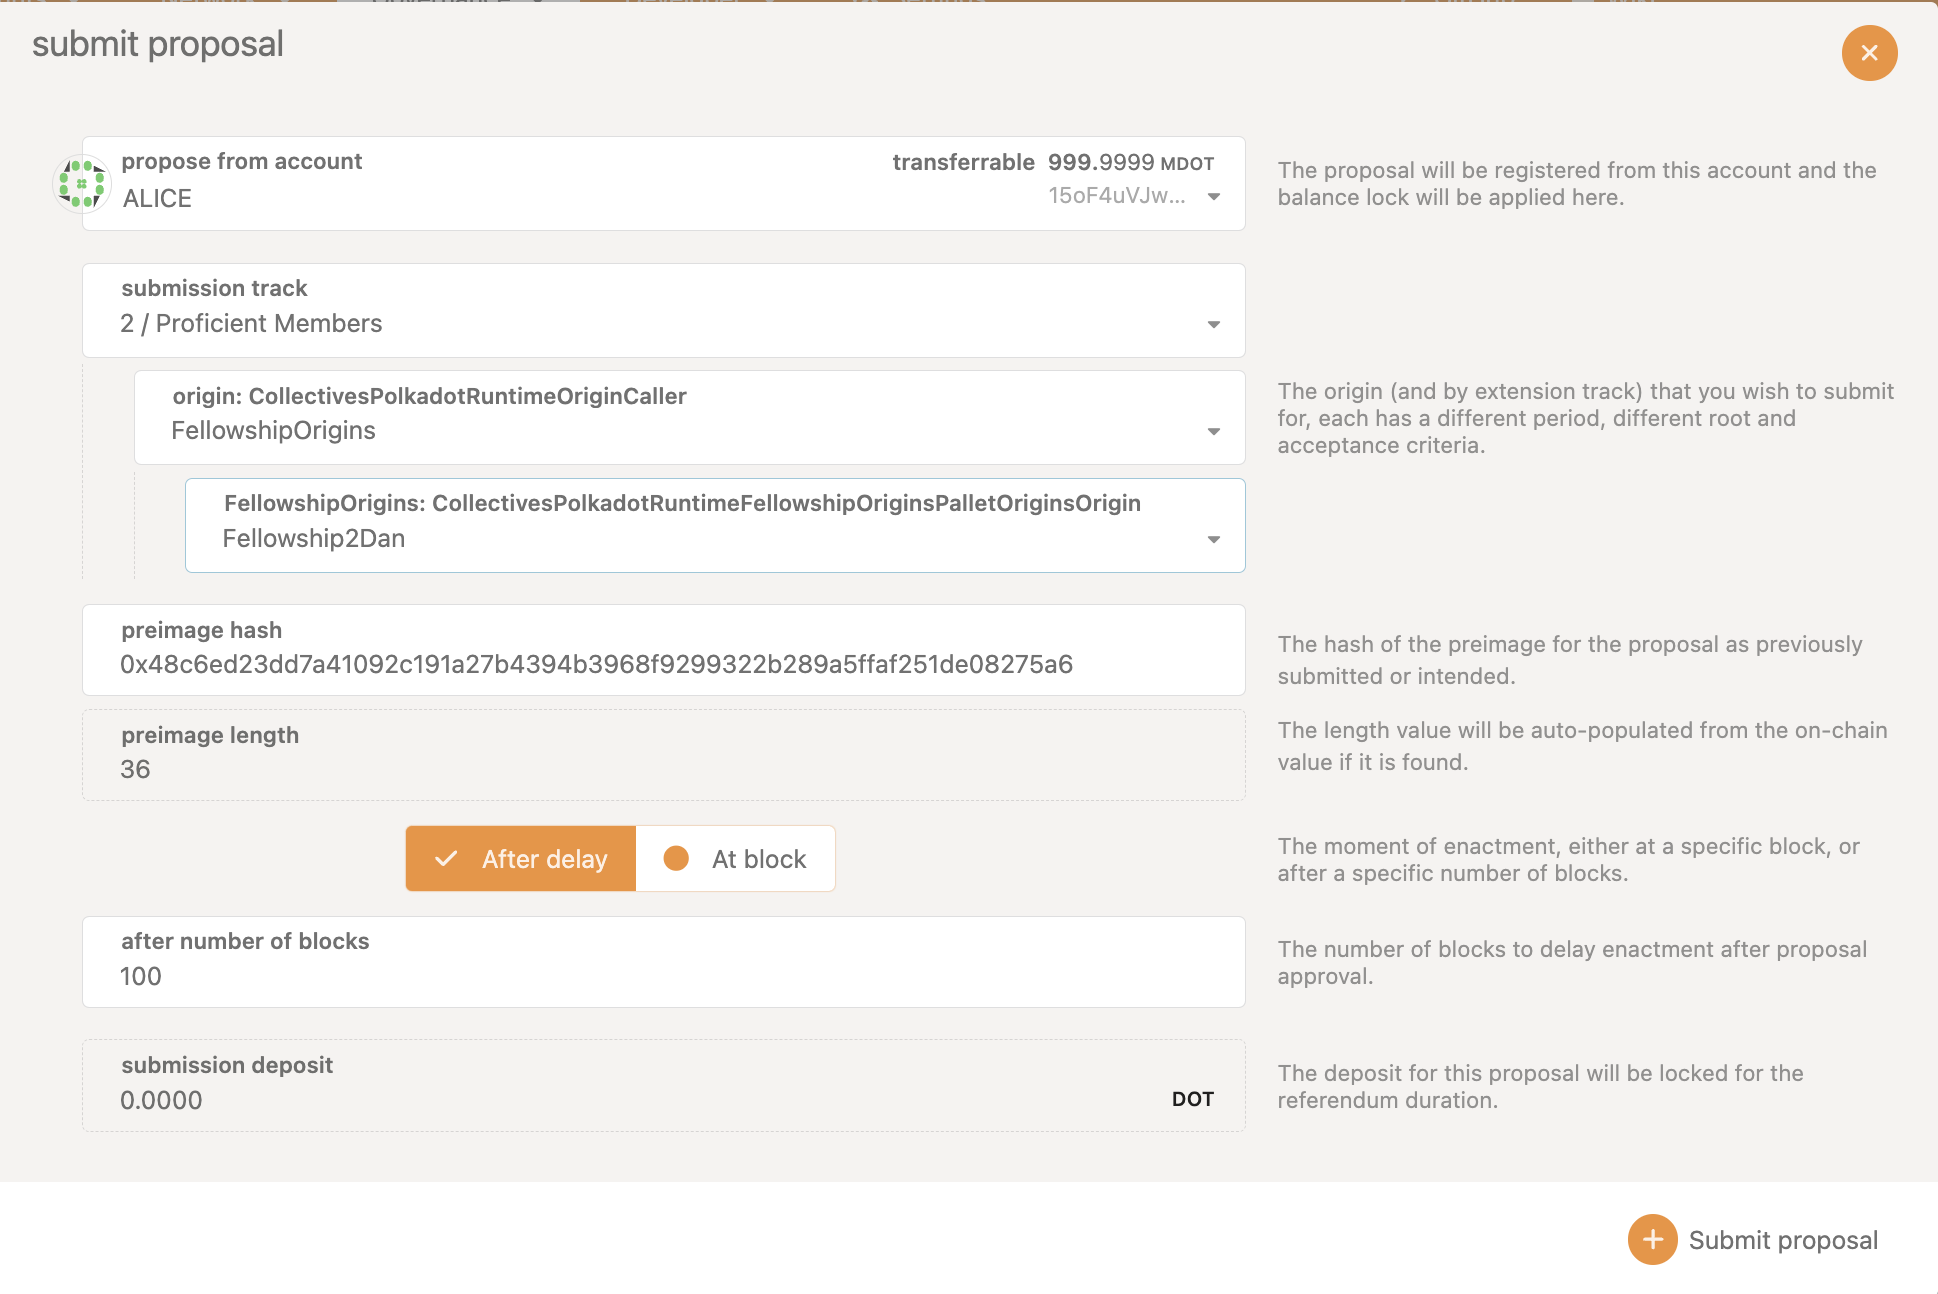
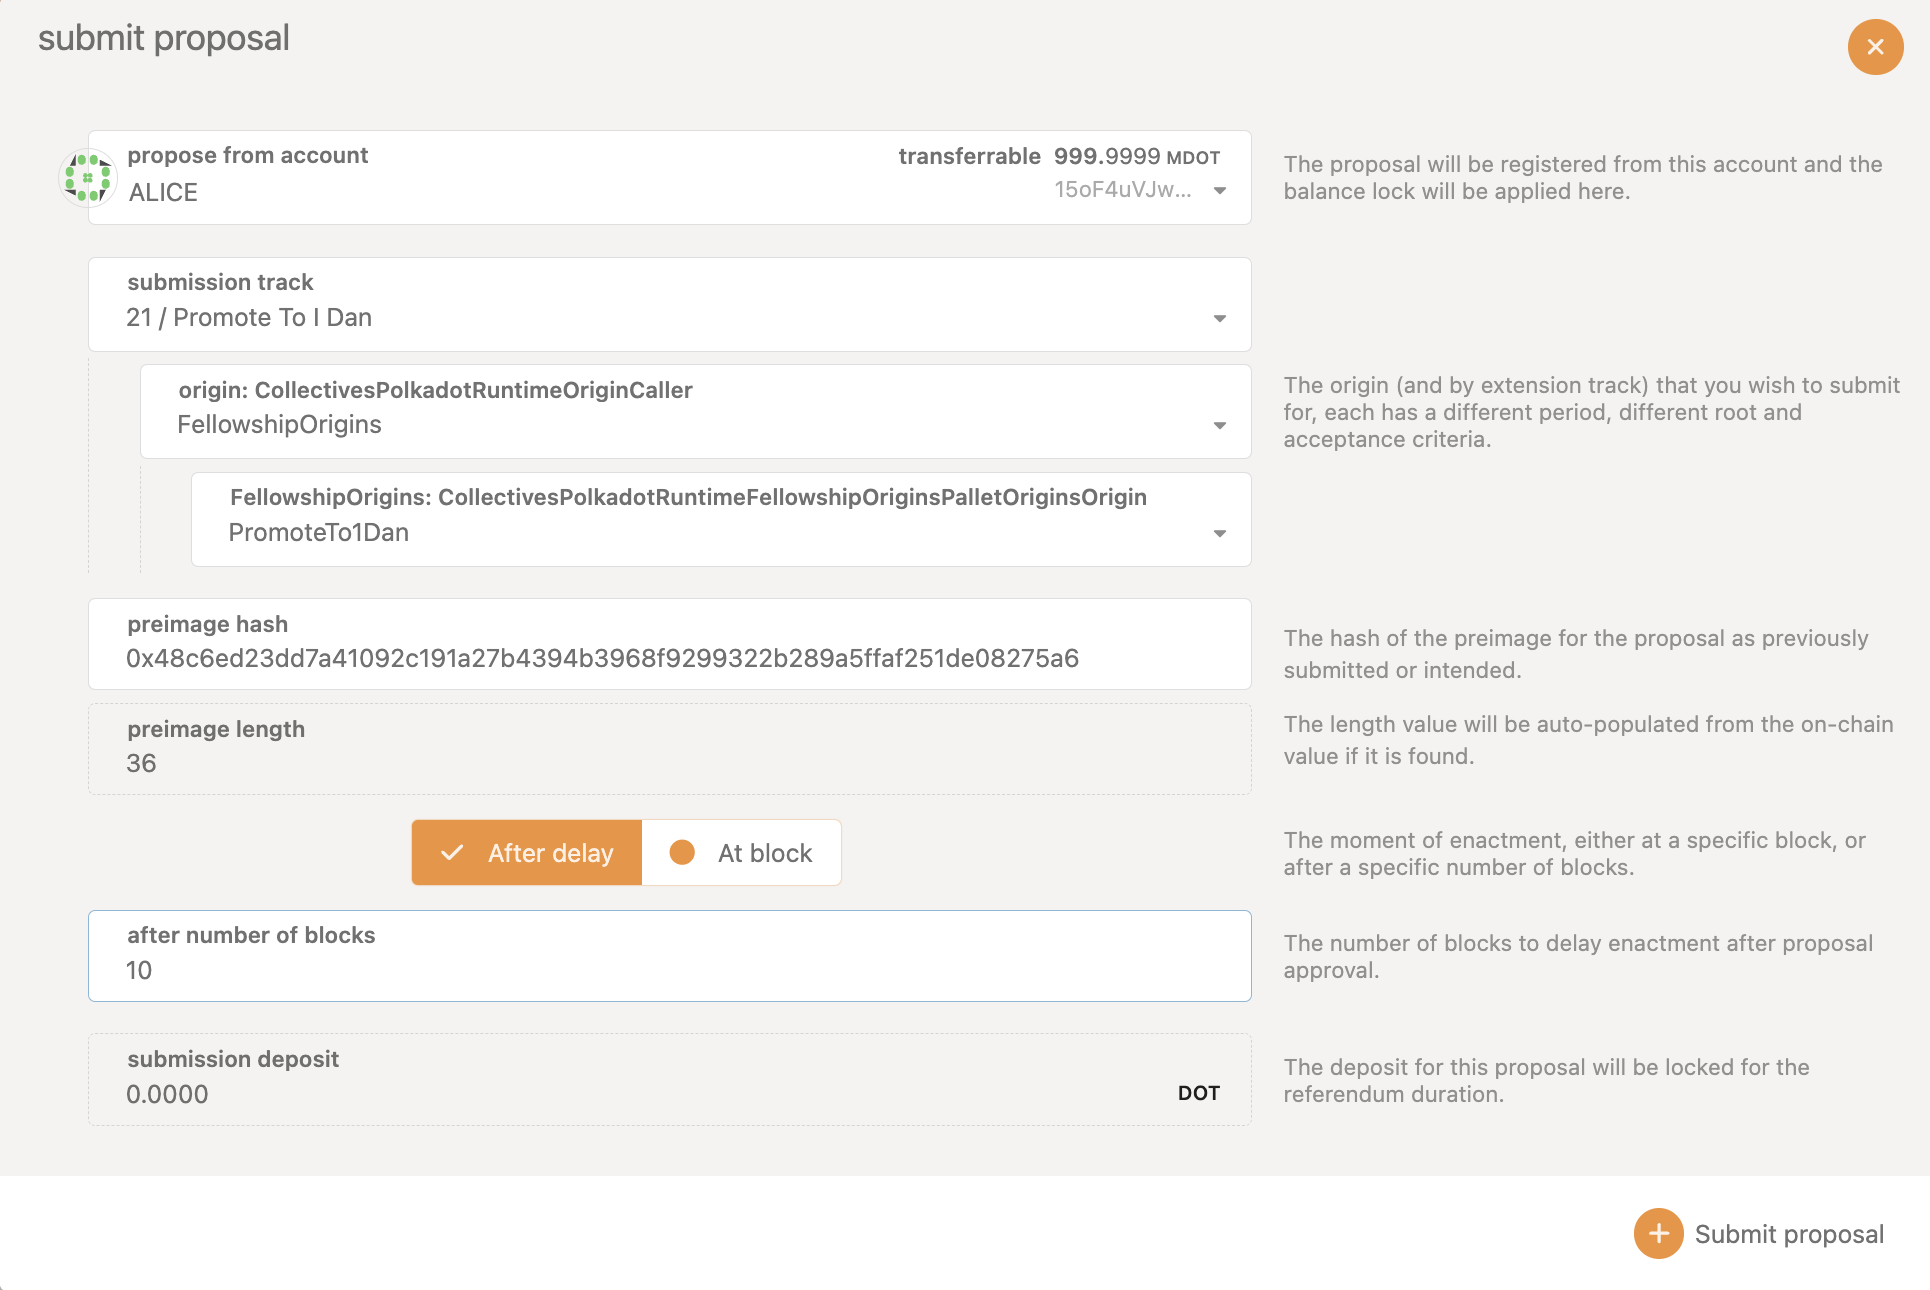
minor fix - correct image and origins

diff --git a/docs/learn/learn-polkadot-technical-fellowship.md b/docs/learn/learn-polkadot-technical-fellowship.md
@@ -169,8 +169,8 @@ below. This preimage can be added by any account on the collectives system chain
 
 ![candidate-promote](../assets/fellowship-promote-member.png)
 
-In the snapshot below, the submission track is chosen as `2/Proficient members`, origin as
-`FellowshipOrigins` and fellowship origins as `Fellowship2Dan`. This selection should work for
+In the snapshot below, the submission track is chosen as `21/Promote to 1 Dan`, origin as
+`FellowshipOrigins` and fellowship origins as `PromoteTo1Dan`. This selection should work for
 promoting a candidate with rank 0 to a member with rank 1.
 
 ![candidate-promote-proposal](../assets/fellowship-promotion-proposal.png)
